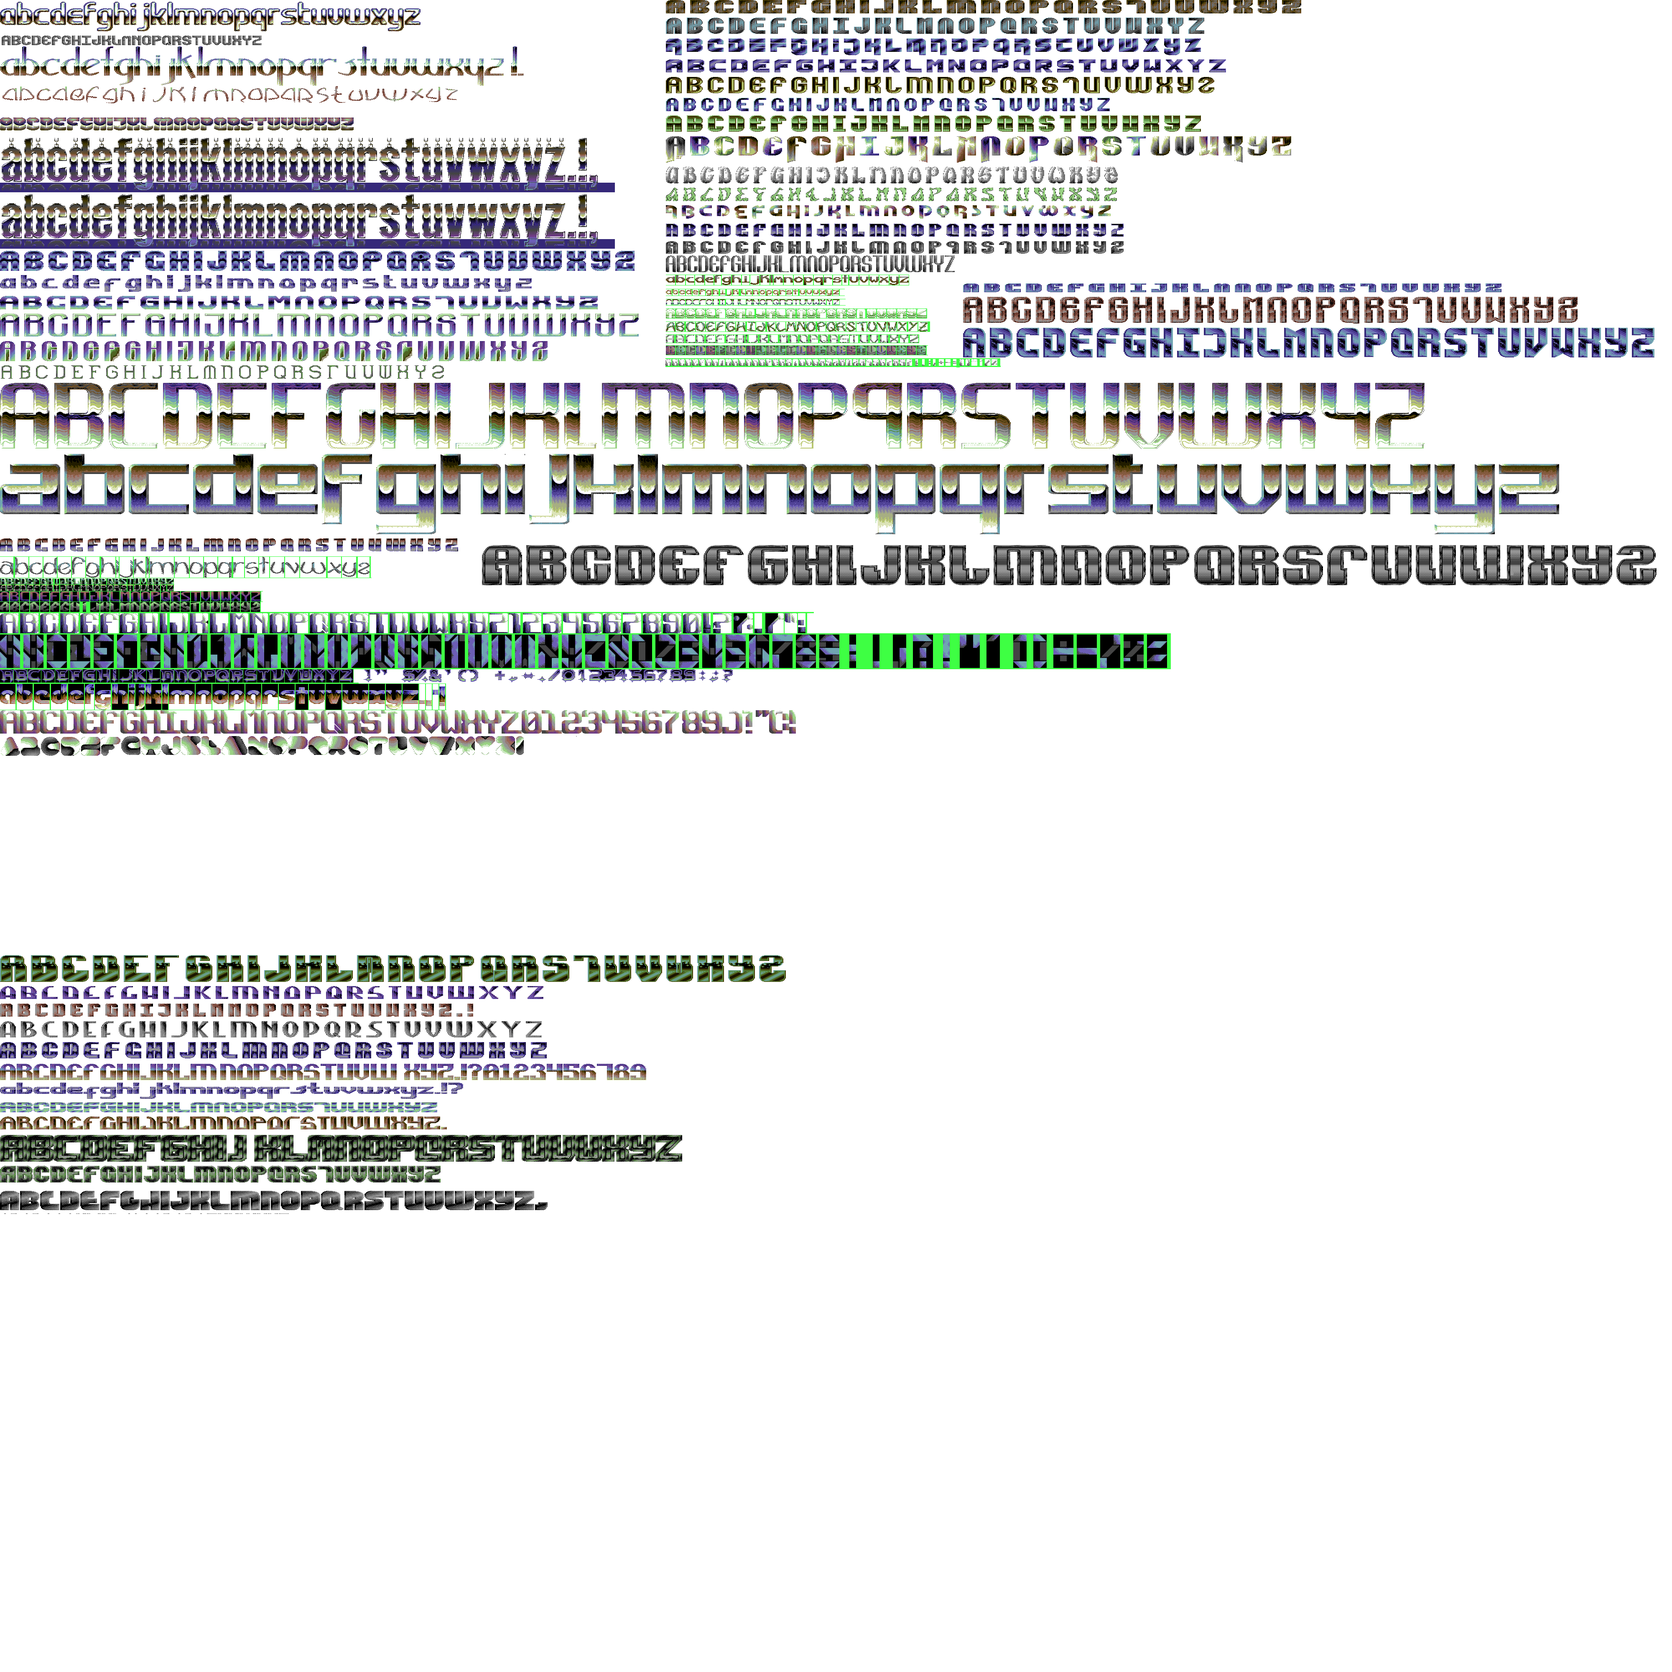
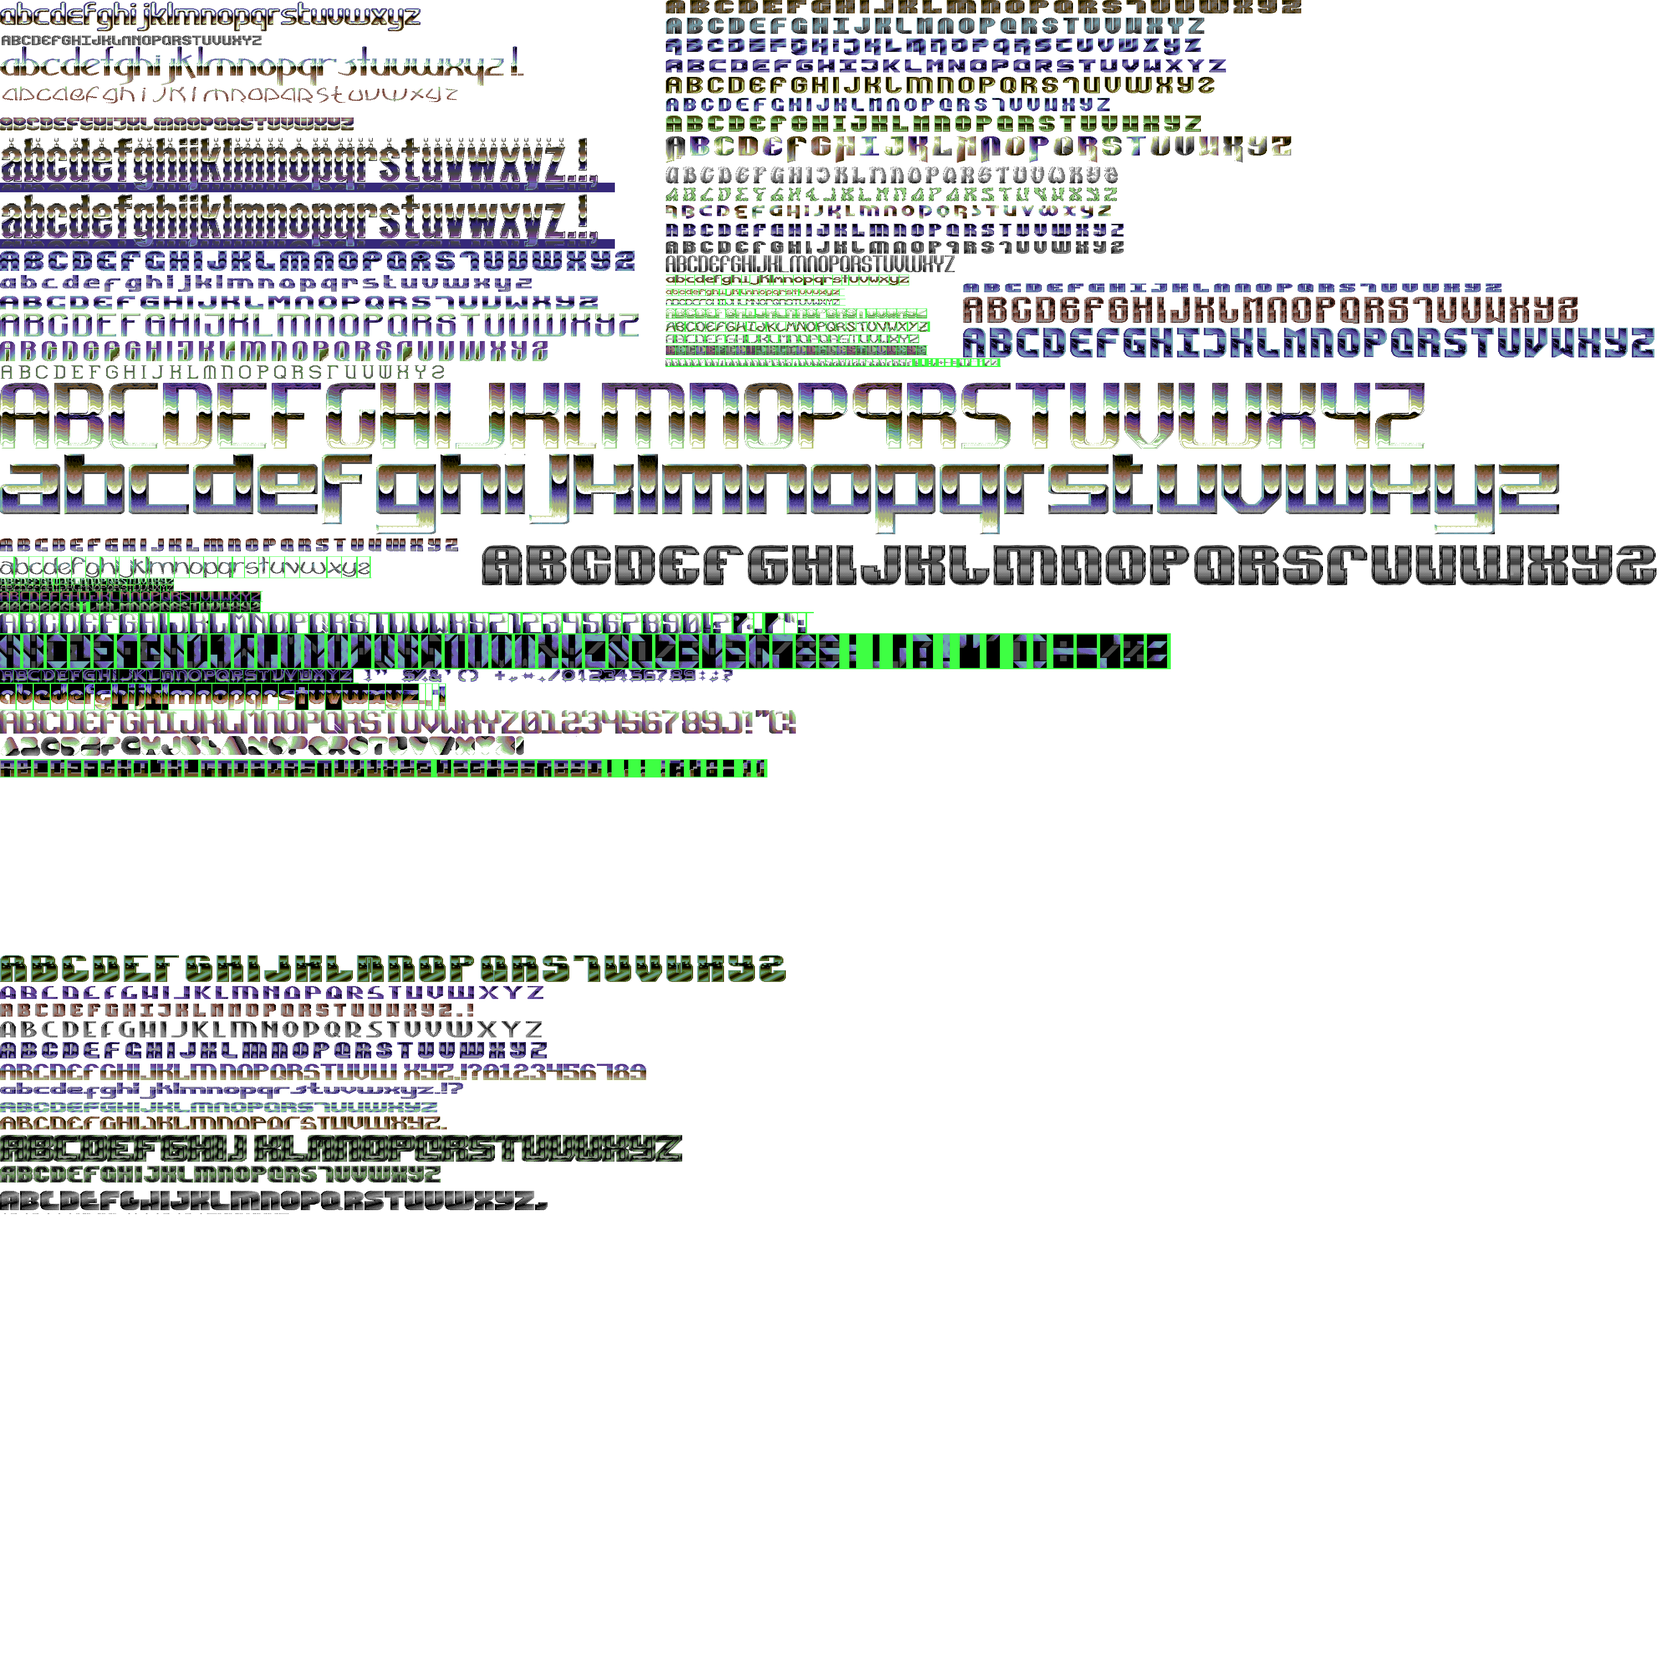
new petscii font

Changed region(s): [[0.0, 0.4375, 0.4688, 0.4688]]

diff --git a/js/fonts.js b/js/fonts.js
@@ -1,69 +1,74 @@
 var imgobj = {
-    "ollie": { "start": 0,"width": 139,"height": 62 },
-    "foldfont": { "start": 62,"width": 208,"height": 90 },
-    "arcoss": { "start": 152,"width": 192,"height": 58 },
-    "tinygold": { "start": 210,"width": 68,"height": 24 },
-    "twobytwohirescupid": { "start": 234,"width": 76,"height": 24 },
-    "bigcolourhires": { "start": 258,"width": 208,"height": 66 },
-    "nailedit": { "start": 324,"width": 72,"height": 26 },
-    "balls": { "start": 350,"width": 73,"height": 25 },
-    "cupidtilt": { "start": 375,"width": 104,"height": 32 },
-    "psychopoetry": { "start": 407,"width": 104,"height": 33 },
-    "pseudotechno": { "start": 440,"width": 104,"height": 29 },
-    "cupid2014": { "start": 469,"width": 114,"height": 52 },
-    "ironsky": { "start": 521,"width": 104,"height": 34 },
-    "legend": { "start": 555,"width": 142,"height": 42 },
-    "censor": { "start": 597,"width": 142,"height": 42 },
-    "qpd": { "start": 639,"width": 114,"height": 41 },
-    "tostretch": { "start": 680,"width": 160,"height": 25 },
-    "cpx4": { "start": 705,"width": 166,"height": 43 },
-    "cpx3": { "start": 748,"width": 167,"height": 51 },
-    "macaroons": { "start": 799,"width": 110,"height": 32 },
-    "deekay": { "start": 831,"width": 146,"height": 42 },
-    "artline": { "start": 873,"width": 166,"height": 50 },
-    "cupidround": { "start": 923,"width": 88,"height": 34 },
-    "cupidfriendlyround": { "start": 957,"width": 200,"height": 55 },
-    "orc": { "start": 1012,"width": 154,"height": 85 },
-    "compyx": { "start": 1097,"width": 178,"height": 107 },
-    "bd": { "start": 1204,"width": 210,"height": 58 },
-    "artix": { "start": 1262,"width": 154,"height": 50 },
-    "bd2": { "start": 1312,"width": 202,"height": 42 },
-    "bk": { "start": 1354,"width": 210,"height": 66 },
-    "bk2": { "start": 1420,"width": 178,"height": 58 },
-    "cml": { "start": 1478,"width": 144,"height": 42 },
-    "sulaco": { "start": 1520,"width": 104,"height": 34 },
-    "diart2": { "start": 1554,"width": 144,"height": 72 },
-    "deekay4": { "start": 1626,"width": 144,"height": 42 },
-    "dize": { "start": 1668,"width": 146,"height": 42 },
-    "gp": { "start": 1710,"width": 178,"height": 50 },
-    "genius": { "start": 1760,"width": 210,"height": 42 },
-    "htl": { "start": 1802,"width": 178,"height": 50 },
-    "htl2": { "start": 1852,"width": 186,"height": 42 },
-    "manowar": { "start": 1894,"width": 178,"height": 50 },
-    "nec": { "start": 1944,"width": 146,"height": 42 },
-    "ons": { "start": 1986,"width": 178,"height": 50 },
-    "oregon": { "start": 2036,"width": 210,"height": 74 },
-    "skyhigh": { "start": 2110,"width": 178,"height": 32 },
-    "vic": { "start": 2142,"width": 146,"height": 50 },
-    "deliverance": { "start": 2192,"width": 174,"height": 50 },
-    "unibit": { "start": 2242,"width": 206,"height": 58 },
-    "vic3": { "start": 2300,"width": 146,"height": 42 },
-    "wot": { "start": 2342,"width": 138,"height": 44 },
-    "wow": { "start": 2386,"width": 146,"height": 42 },
-    "tempest": { "start": 2428,"width": 210,"height": 74 },
-    "cpx6": { "start": 2502,"width": 151,"height": 49 },
-    "vic2": { "start": 2551,"width": 266,"height": 74 },
-    "tough": { "start": 2625,"width": 175,"height": 34 },
-    "doolittle": { "start": 2659,"width": 175,"height": 42 },
-    "unknown": { "start": 2701,"width": 234,"height": 81 },
-    "cpx5": { "start": 2782,"width": 174,"height": 52 },
-    "cupidbigstone": { "start": 2834,"width": 118,"height": 60 },
-    "deliverance2": { "start": 2894,"width": 142,"height": 74 },
-    "deekay2": { "start": 2968,"width": 198,"height": 140 },
-    "deekay3": { "start": 3108,"width": 198,"height": 143 },
-    "diart": { "start": 3251,"width": 202,"height": 202 },
-    "cpx2": { "start": 3453,"width": 210,"height": 170 },
-    "oregon2": { "start": 3623,"width": 202,"height": 106 }
+  fullheight: 3779,
+  fullwidth: 266,
+  arcoss:{ start: 176, width: 192, height: 58 },
+  artix:{ start: 1312, width: 154, height: 50 },
+  artline:{ start: 881, width: 166, height: 50 },
+  balls:{ start: 382, width: 73, height: 25 },
+  bd:{ start: 1254, width: 210, height: 58 },
+  bd2:{ start: 1362, width: 202, height: 42 },
+  bigcolourhires:{ start: 234, width: 208, height: 66 },
+  bk:{ start: 1404, width: 210, height: 66 },
+  bk2:{ start: 1470, width: 178, height: 58 },
+  censor:{ start: 647, width: 142, height: 42 },
+  cml:{ start: 1528, width: 144, height: 42 },
+  compyx:{ start: 1147, width: 178, height: 107 },
+  cpx2:{ start: 3301, width: 210, height: 170 },
+  cpx3:{ start: 798, width: 167, height: 51 },
+  cpx4:{ start: 755, width: 166, height: 43 },
+  cpx5:{ start: 2832, width: 174, height: 52 },
+  cpx6:{ start: 2626, width: 151, height: 49 },
+  cupid2014:{ start: 519, width: 114, height: 52 },
+  cupidbigstone:{ start: 2884, width: 118, height: 60 },
+  cupidfriendlyround:{ start: 1007, width: 200, height: 55 },
+  cupidround:{ start: 973, width: 88, height: 34 },
+  cupidtilt:{ start: 350, width: 104, height: 32 },
+  deekay:{ start: 931, width: 146, height: 42 },
+  deekay2:{ start: 3018, width: 198, height: 140 },
+  deekay3:{ start: 3158, width: 198, height: 143 },
+  deekay4:{ start: 1676, width: 144, height: 42 },
+  deliverance:{ start: 2242, width: 174, height: 50 },
+  deliverance2:{ start: 2944, width: 142, height: 74 },
+  diart:{ start: 3471, width: 202, height: 202 },
+  diart2:{ start: 1604, width: 144, height: 72 },
+  dize:{ start: 1718, width: 146, height: 42 },
+  doolittle:{ start: 2709, width: 175, height: 42 },
+  foldfont:{ start: 86, width: 208, height: 90 },
+  genius:{ start: 1760, width: 210, height: 42 },
+  gp:{ start: 1802, width: 178, height: 50 },
+  htl:{ start: 1852, width: 178, height: 50 },
+  htl2:{ start: 1902, width: 186, height: 42 },
+  ironsky:{ start: 571, width: 104, height: 34 },
+  legend:{ start: 605, width: 142, height: 42 },
+  macaroons:{ start: 849, width: 110, height: 32 },
+  manowar:{ start: 1944, width: 178, height: 50 },
+  metalpetscii:{ start: 440, width: 152, height: 50 },
+  nailedit:{ start: 324, width: 72, height: 26 },
+  nec:{ start: 1994, width: 146, height: 42 },
+  ollie:{ start: 0, width: 139, height: 62 },
+  ons:{ start: 2036, width: 178, height: 50 },
+  orc:{ start: 1062, width: 154, height: 85 },
+  oregon:{ start: 2086, width: 210, height: 74 },
+  oregon2:{ start: 3673, width: 202, height: 106 },
+  pseudotechno:{ start: 490, width: 104, height: 29 },
+  psychopoetry:{ start: 407, width: 104, height: 33 },
+  qpd:{ start: 689, width: 114, height: 41 },
+  skyhigh:{ start: 2160, width: 178, height: 32 },
+  sulaco:{ start: 1570, width: 104, height: 34 },
+  tempest:{ start: 2478, width: 210, height: 74 },
+  tinygold:{ start: 62, width: 68, height: 24 },
+  tostretch:{ start: 730, width: 160, height: 25 },
+  tough:{ start: 2675, width: 175, height: 34 },
+  twobytwohirescupid:{ start: 300, width: 76, height: 24 },
+  unibit:{ start: 2292, width: 206, height: 58 },
+  unknown:{ start: 2751, width: 234, height: 81 },
+  vic:{ start: 2192, width: 146, height: 50 },
+  vic2:{ start: 2552, width: 266, height: 74 },
+  vic3:{ start: 2350, width: 146, height: 42 },
+  wot:{ start: 2392, width: 138, height: 44 },
+  wow:{ start: 2436, width: 146, height: 42 },
+  
+  
 }
 var fonts = {
   ollie:{
@@ -217,6 +222,16 @@ var fonts = {
     n:[312,22],o:[336,22],p:[362,20],q:[384,22],r:[408,22],s:[432,22],
     t:[456,24],u:[482,22],v:[506,22],w:[530,22],x:[554,22],y:[580,22],
     z:[604,22]
+  },
+  metalpetscii:{
+    product: '',
+    year: '2020',
+    productlink: 'https://csdb.dk/release/?id=191019',
+    format: 'Petscii',
+    maker: 'Slaxx/Hokuto Force',
+    makerlink: 'https://csdb.dk/scener/?id=31129',
+    xoffset:0,offset:1818,height:40,
+    ".":[1453,10],"1":[1045,34],"2":[1085,34],"3":[1125,34],"4":[1165,34],"5":[1205,34],"6":[1245,34],"7":[1285,34],"8":[1365,34],"9":[1405,34],"0":[1405,34],"a":[0,34],"b":[40,34],"c":[80,34],"d":[120,34],"e":[160,34],"f":[200,34],"g":[240,34],"h":[280,34],"i":[320,34],"j":[360,34],"k":[400,34],"l":[440,34],"m":[480,34],"n":[520,34],"o":[559,34],"p":[599,34],"q":[639,34],"r":[679,34],"s":[719,34],"t":[759,34],"u":[799,34],"v":[837,34],"w":[877,34],"x":[917,34],"y":[957,34],"z":[997,34],",":[1493,10],":":[1533,10],"!":[1581,10],"?":[1602,34],"/":[1650,26],"+":[1690,26],"-":[1730,26],"(":[1778,18],")":[1810,18]
   },
   pseudotechno:{
     product: '',

diff --git a/index.html b/index.html
@@ -34,16 +34,40 @@
       <li><label for="spacing">Space between words: </label><input id="spacing" type="number" value="15"></li>
       <li><label for="charoffset">Offset each 2nd char: </label><input id="charoffset" type="number" value="0"></li>
       <li class="radios inactive">
-        <input type="radio" id="r1" name="aligned" checked value="left"><label for="r1">
-          <svg height='2em' width='2em'  fill="#ffffff" xmlns="http://www.w3.org/2000/svg" data-name="Layer 2" viewBox="0 0 100 100" x="0px" y="0px"><title>Iconic</title><rect x="17.04" y="25.36" width="65.91" height="6"></rect><rect x="17.04" y="39.79" width="43.87" height="6"></rect><rect x="17.04" y="54.21" width="65.91" height="6"></rect><rect x="17.04" y="68.64" width="43.87" height="6"></rect></svg>
+        <input type="radio" id="r1" name="aligned" checked value="left">
+        <label for="r1">
+          <svg height='2em' width='2em' fill="#ffffff" xmlns="http://www.w3.org/2000/svg" 
+          viewBox="0 0 100 100" x="0px" y="0px" aria-labelledby="titler1" role="img">
+            <title id="titler1">Left</title>
+            <rect x="17.04" y="25.36" width="65.91" height="6"></rect>
+            <rect x="17.04" y="39.79" width="43.87" height="6"></rect>
+            <rect x="17.04" y="54.21" width="65.91" height="6"></rect>
+            <rect x="17.04" y="68.64" width="43.87" height="6"></rect>
+          </svg>
         </label>
         <input type="radio" name="aligned" id="r2" value="centre">
         <label for="r2">
-          <svg height='2em' width='2em'  fill="#ffffff" xmlns="http://www.w3.org/2000/svg" xmlns:xlink="http://www.w3.org/1999/xlink" version="1.1" x="0px" y="0px" viewBox="0 0 16 16" style="enable-background:new 0 0 16 16;" xml:space="preserve"><title>Center</title><rect x="2.15" y="8.85" width="11.7" height="1"></rect><rect x="2.15" y="3.45" width="11.7" height="1"></rect><rect x="3.95" y="11.55" width="8.1" height="1"></rect><rect x="3.95" y="6.15" width="8.1" height="1"></rect></svg>
+          <svg height='2em' width='2em' fill="#ffffff" 
+            x="0px" y="0px" viewBox="0 0 16 16"
+            xml:space="preserve" aria-labelledby="titler2" role="img">
+            <title id="titler2">Center</title>>
+            <rect x="2.15" y="8.85" width="11.7" height="1"></rect>
+            <rect x="2.15" y="3.45" width="11.7" height="1"></rect>
+            <rect x="3.95" y="11.55" width="8.1" height="1"></rect>
+            <rect x="3.95" y="6.15" width="8.1" height="1"></rect>
+          </svg>
         </label>
         <input type="radio" id="r3" name="aligned" value="right">
         <label for="r3">
-          <svg height='2em' width='2em'  fill="#ffffff" xmlns="http://www.w3.org/2000/svg" data-name="Layer 2" viewBox="0 0 100 100" x="0px" y="0px"><title>Right</title><rect x="17.04" y="25.36" width="65.91" height="6"></rect><rect x="39.08" y="39.79" width="43.87" height="6"></rect><rect x="17.04" y="54.21" width="65.91" height="6"></rect><rect x="39.08" y="68.64" width="43.87" height="6"></rect></svg>
+          <svg height='2em' width='2em' fill="#ffffff" 
+            xmlns="http://www.w3.org/2000/svg" viewBox="0 0 100 100" x="0px" y="0px" 
+            aria-labelledby="titler3" role="img">
+            <title id="titler3">Right</title>
+            <rect x="17.04" y="25.36" width="65.91" height="6"></rect>
+            <rect x="39.08" y="39.79" width="43.87" height="6"></rect>
+            <rect x="17.04" y="54.21" width="65.91" height="6"></rect>
+            <rect x="39.08" y="68.64" width="43.87" height="6"></rect>
+          </svg>
         </label>
       </li>
     </ul>
@@ -51,10 +75,25 @@
 
     <div class="actions">
     <button type="button" id="zoombutton">
-      <svg height='2em' width='2em'  fill="#ffffff" xmlns="http://www.w3.org/2000/svg" data-name="Layer 2" viewBox="0 0 100 100" x="0px" y="0px"><title>Zoom</title><path d="M65.46,58.26c0.4-.54.79-1.1,1.16-1.67a34,34,0,1,0-10,10c0.57-.36,1.13-0.75,1.67-1.16A33.85,33.85,0,0,0,65.46,58.26ZM6.23,38.19A31.92,31.92,0,1,1,38.14,70.1,32,32,0,0,1,6.23,38.19Z"></path><path d="M42.51,58.64a21,21,0,0,1-4.37.46,20.72,20.72,0,0,1-8.37-1.75,1,1,0,0,0-.8,1.83,22.71,22.71,0,0,0,9.18,1.92,23,23,0,0,0,4.78-.5A1,1,0,0,0,42.51,58.64Z"></path><path d="M38.15,11.27A26.89,26.89,0,0,0,13.35,27.71a1,1,0,1,0,1.84.78,24.91,24.91,0,1,1-2,9.69,1,1,0,0,0-2,0A26.91,26.91,0,1,0,38.15,11.27Z"></path><path d="M93.7,83.67L68.06,58c-0.37.57-.76,1.12-1.17,1.66l6.6,6.6-3.6,3.59a1,1,0,1,0,1.41,1.41l3.59-3.59L92.28,85.08a5.07,5.07,0,0,1-7.16,7.17L59.73,66.87c-0.54.41-1.08,0.8-1.65,1.18L83.7,93.67A7.07,7.07,0,0,0,93.7,83.67Z"></path><path d="M37.56,27.12a1,1,0,0,0-1,1v7.5h-7.5a1,1,0,1,0,0,2h7.5v7.5a1,1,0,0,0,2,0v-7.5h7.5a1,1,0,0,0,0-2h-7.5v-7.5A1,1,0,0,0,37.56,27.12Z"></path></svg>
+      <svg height='100%' width='100%' fill="#ffffff"
+      viewBox="0 0 100 100" x="0px" y="0px" aria-labelledby="zoomtitle" role="img">
+        <title id="zoomtitle">Zoom</title>
+        <path d="M65.46,58.26c0.4-.54.79-1.1,1.16-1.67a34,34,0,1,0-10,10c0.57-.36,1.13-0.75,1.67-1.16A33.85,33.85,0,0,0,65.46,58.26ZM6.23,38.19A31.92,31.92,0,1,1,38.14,70.1,32,32,0,0,1,6.23,38.19Z"></path>
+        <path d="M42.51,58.64a21,21,0,0,1-4.37.46,20.72,20.72,0,0,1-8.37-1.75,1,1,0,0,0-.8,1.83,22.71,22.71,0,0,0,9.18,1.92,23,23,0,0,0,4.78-.5A1,1,0,0,0,42.51,58.64Z"></path>
+        <path d="M38.15,11.27A26.89,26.89,0,0,0,13.35,27.71a1,1,0,1,0,1.84.78,24.91,24.91,0,1,1-2,9.69,1,1,0,0,0-2,0A26.91,26.91,0,1,0,38.15,11.27Z"></path>
+        <path d="M93.7,83.67L68.06,58c-0.37.57-.76,1.12-1.17,1.66l6.6,6.6-3.6,3.59a1,1,0,1,0,1.41,1.41l3.59-3.59L92.28,85.08a5.07,5.07,0,0,1-7.16,7.17L59.73,66.87c-0.54.41-1.08,0.8-1.65,1.18L83.7,93.67A7.07,7.07,0,0,0,93.7,83.67Z"></path>
+        <path d="M37.56,27.12a1,1,0,0,0-1,1v7.5h-7.5a1,1,0,1,0,0,2h7.5v7.5a1,1,0,0,0,2,0v-7.5h7.5a1,1,0,0,0,0-2h-7.5v-7.5A1,1,0,0,0,37.56,27.12Z"></path>
+      </svg>
     </button>
-    <a id="save" href="" download=""><svg height='2em' width='2em'  fill="#ffffff" xmlns="http://www.w3.org/2000/svg" xmlns:xlink="http://www.w3.org/1999/xlink" xml:space="preserve" version="1.1" style="shape-rendering:geometricPrecision;text-rendering:geometricPrecision;image-rendering:optimizeQuality;" viewBox="0 0 847 847" x="0px" y="0px" fill-rule="evenodd" clip-rule="evenodd"><title>Save</title><defs><style type="text/css">.fil0 {fill:#ffffff;fill-rule:nonzero}</style></defs><g><path class="fil0" d="M239 328l369 0c11,0 20,-9 20,-20l0 -234 -409 0 0 234c0,11 9,20 20,20zm10 368l349 0 0 34 -349 0 0 -34zm0 -77c116,0 233,0 349,0 0,11 0,23 0,34 -116,0 -233,0 -349,0 0,-11 0,-23 0,-34zm0 -77l349 0 0 34 -349 0 0 -34zm-144 -502c193,0 387,0 581,0l131 122 0 570c0,41 -34,74 -75,74 -212,0 -425,0 -637,0 -41,0 -75,-33 -75,-74l0 -617c0,-41 34,-75 75,-75zm568 34l-11 0 0 234c0,30 -24,54 -54,54l-369 0c-30,0 -54,-25 -54,-54l0 -234 -80 0c-23,0 -41,19 -41,41l0 617c0,22 18,40 41,40l43 0 0 -224c0,-48 40,-88 88,-88l375 0c48,0 87,40 87,88l0 224 44 0c23,0 41,-18 41,-40l0 -556 -110 -102zm-62 420l-375 0c-30,0 -54,24 -54,54l0 224 482 0 0 -224c0,-30 -24,-54 -53,-54zm-131 -399l110 0 0 212 -110 0 0 -212z"></path></g></svg></a>
-
+    <a id="save" href="" download="">
+      <svg height='100%' width='100%' fill="#ffffff"
+      viewBox="0 0 847 847" x="0px" y="0px" aria-labelledby="savetitle" role="img">
+      <title id="savetitle">Save</title>
+        <g>
+          <path class="fil0" d="M239 328l369 0c11,0 20,-9 20,-20l0 -234 -409 0 0 234c0,11 9,20 20,20zm10 368l349 0 0 34 -349 0 0 -34zm0 -77c116,0 233,0 349,0 0,11 0,23 0,34 -116,0 -233,0 -349,0 0,-11 0,-23 0,-34zm0 -77l349 0 0 34 -349 0 0 -34zm-144 -502c193,0 387,0 581,0l131 122 0 570c0,41 -34,74 -75,74 -212,0 -425,0 -637,0 -41,0 -75,-33 -75,-74l0 -617c0,-41 34,-75 75,-75zm568 34l-11 0 0 234c0,30 -24,54 -54,54l-369 0c-30,0 -54,-25 -54,-54l0 -234 -80 0c-23,0 -41,19 -41,41l0 617c0,22 18,40 41,40l43 0 0 -224c0,-48 40,-88 88,-88l375 0c48,0 87,40 87,88l0 224 44 0c23,0 41,-18 41,-40l0 -556 -110 -102zm-62 420l-375 0c-30,0 -54,24 -54,54l0 224 482 0 0 -224c0,-30 -24,-54 -53,-54zm-131 -399l110 0 0 212 -110 0 0 -212z">
+          </path>
+        </g>
+      </svg>
     </a>
 
     <ul class="palette inactive" id="c64colours">

diff --git a/rip.html b/rip.html
@@ -22,10 +22,12 @@ window.addEventListener('load', function(){
   c.height = img.naturalHeight;
 
   ctx.drawImage(img,0,0,width,img.naturalHeight);
-  var offset = 1593;
-  var startpoint = [0,863];
-  var green = {r:62,b:67,g:255,a:255}
-    var letters = `abcdefghijklmnopqrstuvwxyz01234567989?!.:,+-=()"'/%`.split('');
+  var offset = 0;
+  var startpoint = [0,1818];
+  var green = {r:62,b:67,g:255,a:255};
+  var green = {r:75,g:253,b:81,a:255};
+  console.log(pixelcolour(0,1816))
+    var letters = `abcdefghijklmnopqrstuvwxyz12345679890.,:!?/+-()`.split('');
 //  var letters = 'abcdefghijklmnopqrstuvwxyz1234569890!?%./",'.split('');
 var fontdata = {};
 

diff --git a/styles/logogen.css b/styles/logogen.css
@@ -136,13 +136,6 @@ input[type=text] {
   border-radius: 10px;
   transform: scale(1);
 }
-#save {
-  overflow: auto;
-}
-#save img {
-  display: block;
-  margin: 10px 0;
-}
 button {
   font-size: 1em ;
 }
@@ -154,9 +147,6 @@ button {
 }
 .colouring .inputs {
   opacity: 0.3;
-}
-#save p {
-  font-size: inherit;
 }
 form {
   display: flex;
